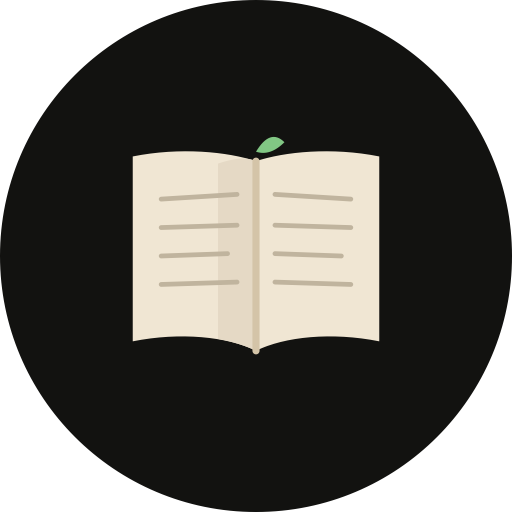
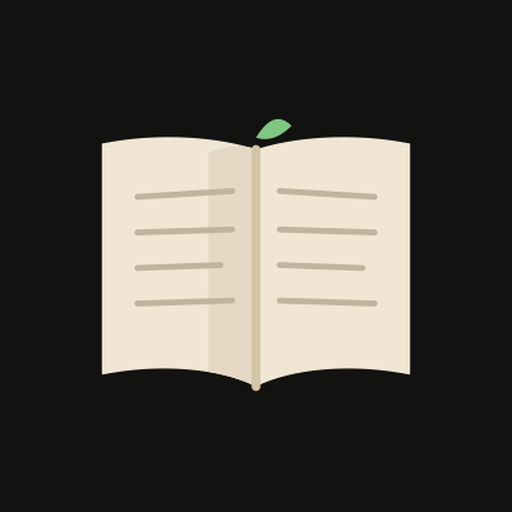
Auto page turn stops when the page is not in front (1.0.10)
The wait between turns ran on a coroutine tied to the composition, which outlives
onStop, so a book left open with the screen off kept turning: on the emulator a
page at 5 percent was at 16 percent after forty-five seconds in the background,
and every one of those turns saved the position and pushed it to the phone.
The wait now sits inside repeatOnLifecycle(RESUMED), so leaving the page cancels
it and coming back starts a fresh page.

Also here: the crown writes the preference only when it crosses a stop rather than
on every rotary event; a change of pace restarts the current page instead of taking
effect one page later; Settings is read again on resume so a pace changed there
applies to a book already open; and Read aloud now switches auto page turn off for
good, since the voice turns pages itself and a half-on switch reads as a lie.

CI has failed on every commit since the repository was created: the first Gradle
run is , which covers the release variant, and release resource packaging
refuses to run before the throwaway signing key exists. The key is now made before
any Gradle runs.

The store icon is the version without the black ring, matching what is on Play.

Claude-Session: https://claude.ai/code/session_01Q1RLruG5yjBkp6saSZZABh

diff --git a/wear/src/main/java/com/watchreader/wear/ui/screen/ReaderScreen.kt b/wear/src/main/java/com/watchreader/wear/ui/screen/ReaderScreen.kt
@@ -69,6 +69,10 @@ import androidx.compose.ui.text.style.TextOverflow
 import androidx.compose.ui.unit.Constraints
 import androidx.compose.ui.unit.dp
 import androidx.compose.ui.unit.sp
+import androidx.lifecycle.Lifecycle
+import androidx.lifecycle.LifecycleEventObserver
+import androidx.lifecycle.compose.LocalLifecycleOwner
+import androidx.lifecycle.repeatOnLifecycle
 import androidx.lifecycle.viewmodel.compose.viewModel
 import androidx.wear.compose.material.InlineSlider
 import androidx.wear.compose.material.InlineSliderDefaults
@@ -101,6 +105,7 @@ import com.watchreader.wear.tts.TtsState
 import com.watchreader.wear.ui.theme.pageColors
 import com.watchreader.wear.ui.viewmodel.ReaderUiState
 import com.watchreader.wear.ui.viewmodel.ReaderViewModel
+import kotlinx.coroutines.delay
 import kotlinx.coroutines.flow.combine
 import kotlin.math.roundToInt
 
@@ -145,6 +150,7 @@ fun ReaderScreen(
     var autoTurn by remember { mutableStateOf(prefs.autoTurnEnabled) }
     var autoSeconds by remember { mutableFloatStateOf(prefs.autoTurnSeconds) }
     val focusRequester = remember { FocusRequester() }
+    val lifecycleOwner = LocalLifecycleOwner.current
     val measurer = rememberTextMeasurer()
 
     // Keep the screen on while this page is up, if the user wants that.
@@ -162,17 +168,37 @@ fun ReaderScreen(
 
     BackHandler(enabled = showToolbar) { showToolbar = false }
 
-    // Auto page turn: the page stays for the chosen seconds, then moves on; a manual turn
-    // restarts the wait, the end of the book or the toolbar stops it.
-    LaunchedEffect(autoTurn, state, showToolbar) {
+    // Auto page turn: the page stays for the chosen seconds, then moves on. The wait lives
+    // inside repeatOnLifecycle, so it stops the moment the watch leaves the page (screen off,
+    // Home, another app) and starts afresh on the way back; otherwise a book left open would
+    // keep turning in the dark and overwrite the reading position on the phone.
+    LaunchedEffect(autoTurn, autoSeconds, state, showToolbar) {
         val s = state
         if (!autoTurn || showToolbar || s !is ReaderUiState.Ready) return@LaunchedEffect
         if (s.atEnd) { autoTurn = false; return@LaunchedEffect }
-        kotlinx.coroutines.delay((autoSeconds * 1000).toLong())
-        if (autoTurn && !showToolbar) vm.nextPage()
+        lifecycleOwner.lifecycle.repeatOnLifecycle(Lifecycle.State.RESUMED) {
+            delay((autoSeconds * 1000).toLong())
+            if (autoTurn && !showToolbar) vm.nextPage()
+        }
     }
-    // Reading aloud turns pages on its own; auto turn steps aside while a voice is playing.
-    LaunchedEffect(ttsHere, ttsState) { if (ttsHere && ttsState == TtsState.PLAYING) autoTurn = false }
+    // Reading aloud turns pages by itself, so the two never run together: starting a voice
+    // switches auto page turn off and remembers that, which is also what the switch then shows.
+    // Turning it back on afterwards is the reader's call, not something that happens by itself.
+    LaunchedEffect(ttsHere, ttsState) {
+        if (ttsHere && ttsState == TtsState.PLAYING && autoTurn) {
+            autoTurn = false
+            prefs.autoTurnEnabled = false
+        }
+    }
+    // The seconds a page stays can be changed in Settings while this screen sits in the back
+    // stack, so read it again every time the page comes forward.
+    DisposableEffect(lifecycleOwner) {
+        val observer = LifecycleEventObserver { _, event ->
+            if (event == Lifecycle.Event.ON_RESUME) autoSeconds = prefs.autoTurnSeconds
+        }
+        lifecycleOwner.lifecycle.addObserver(observer)
+        onDispose { lifecycleOwner.lifecycle.removeObserver(observer) }
+    }
     val previousLabel = stringResource(R.string.reader_previous_page)
     val nextLabel = stringResource(R.string.reader_next_page)
     val controlsLabel = stringResource(R.string.reader_controls)
@@ -203,14 +229,15 @@ fun ReaderScreen(
                     while (crownTravel >= CROWN_PIXELS_PER_PAGE) {
                         crownTravel -= CROWN_PIXELS_PER_PAGE
                         autoSeconds = ReaderPrefs.autoTurnStep(autoSeconds, -1)
+                        prefs.autoTurnSeconds = autoSeconds
                         tick()
                     }
                     while (crownTravel <= -CROWN_PIXELS_PER_PAGE) {
                         crownTravel += CROWN_PIXELS_PER_PAGE
                         autoSeconds = ReaderPrefs.autoTurnStep(autoSeconds, +1)
+                        prefs.autoTurnSeconds = autoSeconds
                         tick()
                     }
-                    prefs.autoTurnSeconds = autoSeconds
                     return@onRotaryScrollEvent true
                 }
                 // The crown reports a stream of small deltas; one page per notch, not per event.
@@ -247,10 +274,7 @@ fun ReaderScreen(
     ) {
         // The toolbar's list takes rotary focus while it is up and clears it on the way out, so the
         // page asks for it back every time the toolbar closes, not only on first composition.
-        LaunchedEffect(showToolbar) {
-            if (!showToolbar) focusRequester.requestFocus()
-            autoSeconds = prefs.autoTurnSeconds
-        }
+        LaunchedEffect(showToolbar) { if (!showToolbar) focusRequester.requestFocus() }
 
         // One left-aligned block, inset from the bezel on a round screen.
         val screenWpx = with(density) { maxWidth.roundToPx() }
@@ -356,7 +380,6 @@ fun ReaderScreen(
                             prefs.autoTurnEnabled = on
                             tick()
                         },
-
                         background = colors.background,
                         textColor = colors.text,
                         chapters = s.chapters,
